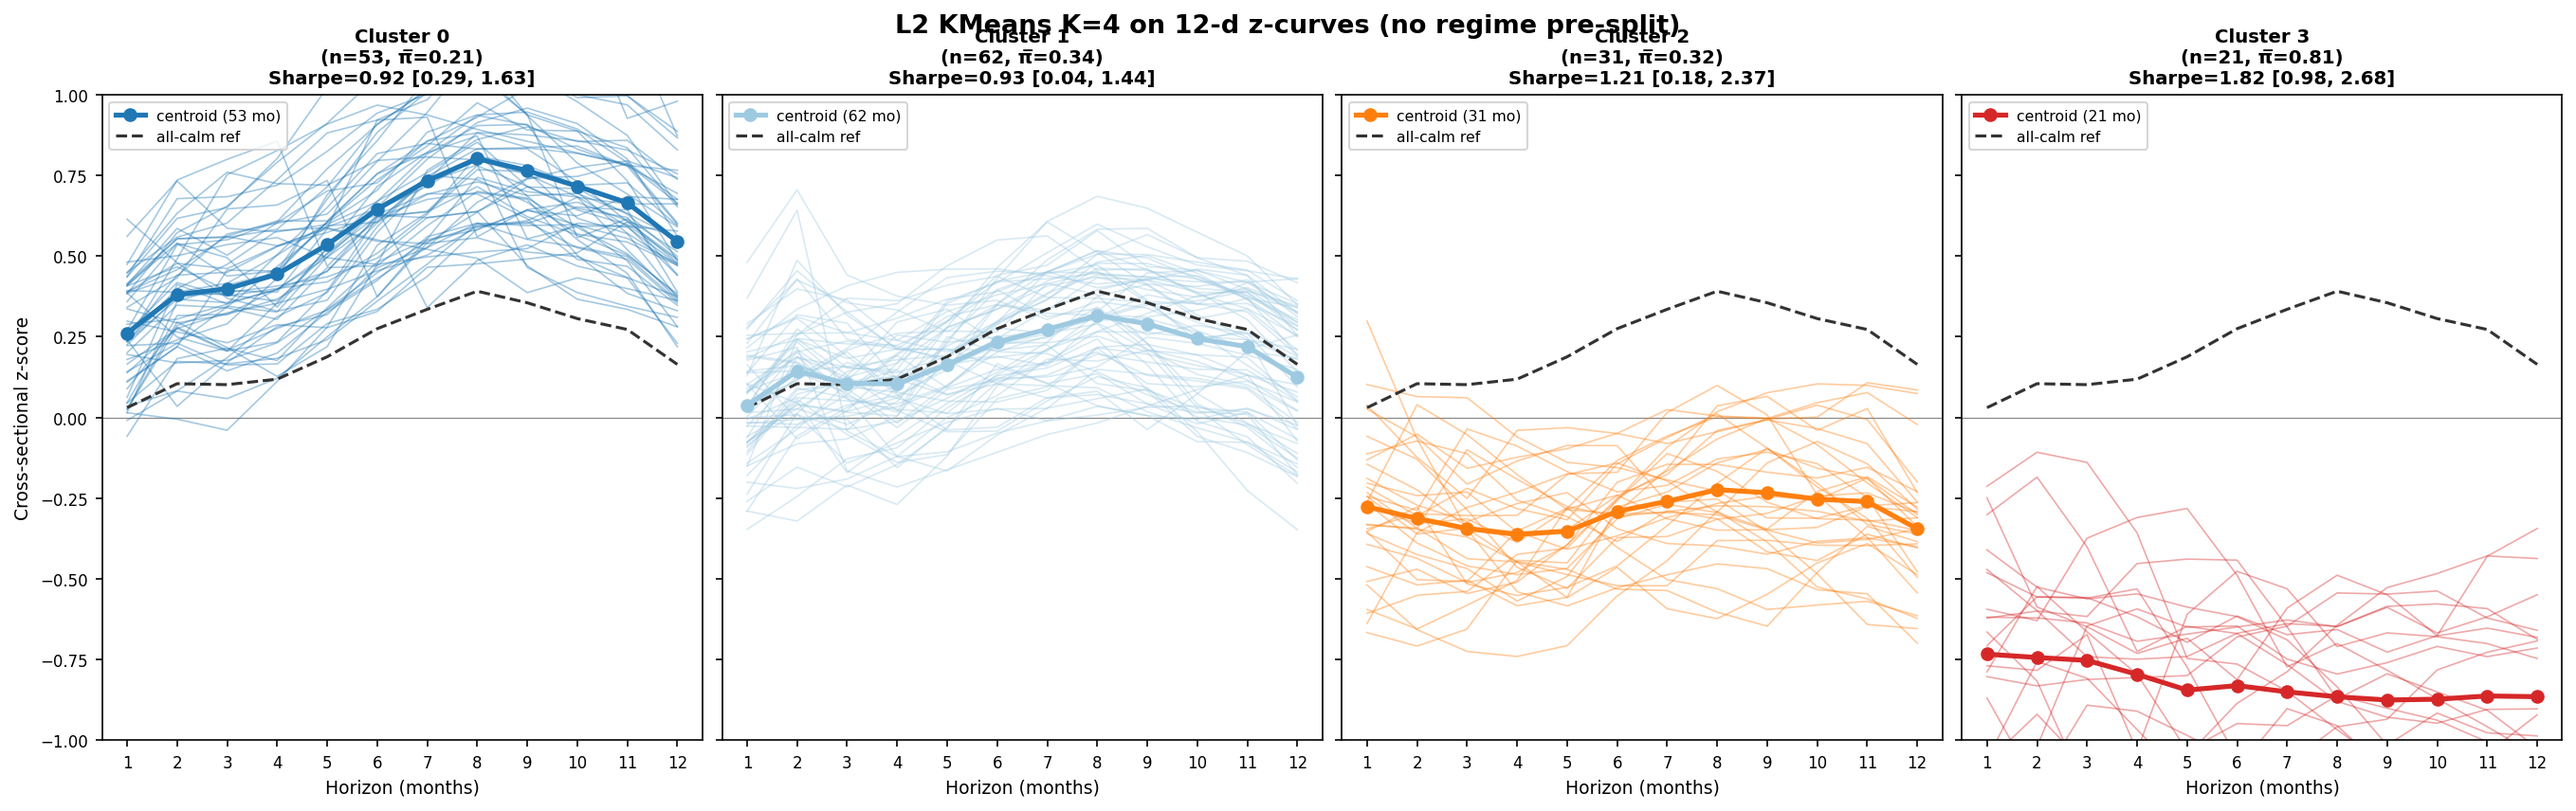
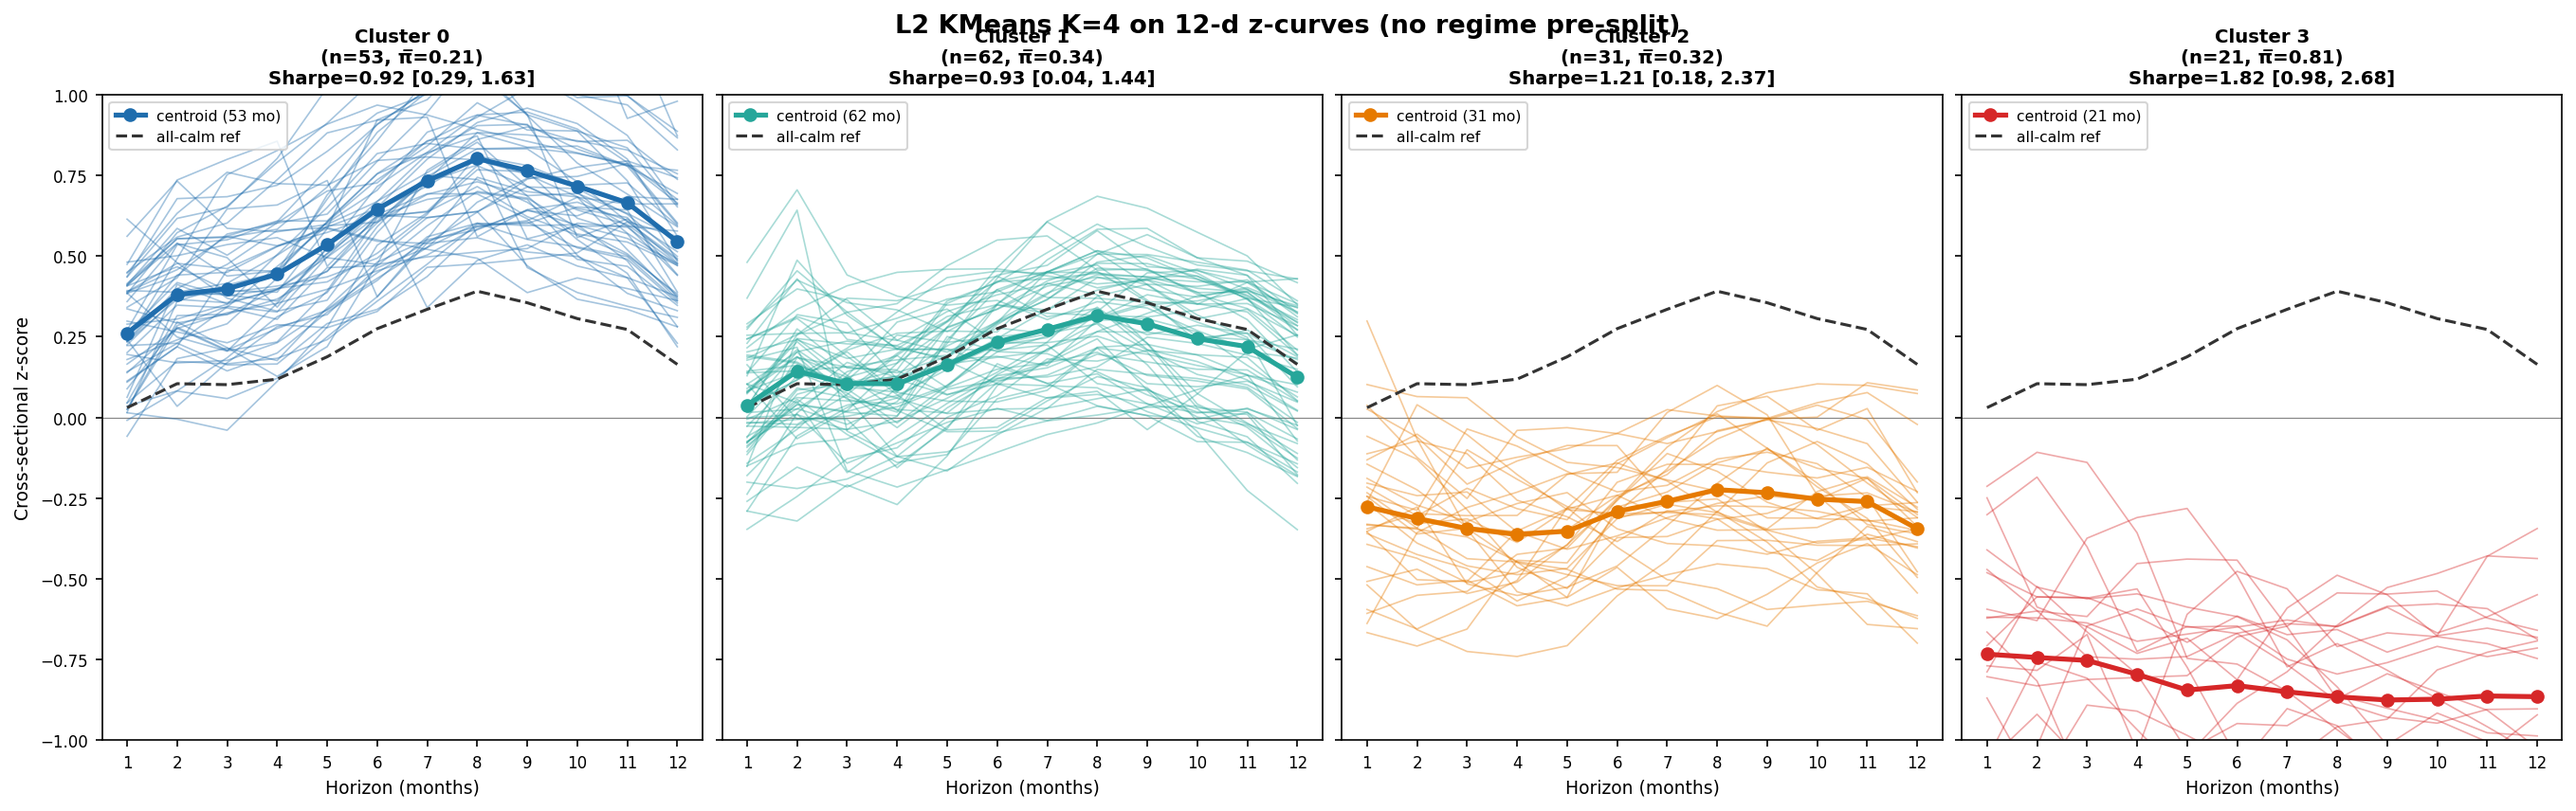
plot: cool-to-warm palette for L2 K=4 dispersion
Blue / teal / orange / red — mirrors the "picks above → below the
cross-section" axis. Cool tones for above-average picks, warm tones for
below-average. Reads more naturally than the prior amber-orange-red
gradient.

diff --git a/scripts/cluster_zscore_l2_k4.py b/scripts/cluster_zscore_l2_k4.py
@@ -66,10 +66,10 @@ BOOT_SEED = 42
 
 # Cluster aesthetics (spec colours: 0=light blue, 1=gray-blue, 2=orange, 3=red)
 CLUSTER_COLORS = {
-    0: "#1f77b4",
-    1: "#9ecae1",
-    2: "#ff7f0e",
-    3: "#d62728",
+    0: "#1f6dad",  # deep blue: picks far above cross-section
+    1: "#26a69a",  # teal: picks moderately above cross-section
+    2: "#e67a00",  # deep orange: picks moderately below cross-section
+    3: "#d62728",  # red: deep crisis, picks far below cross-section
 }
 
 # ---------------------------------------------------------------------------
